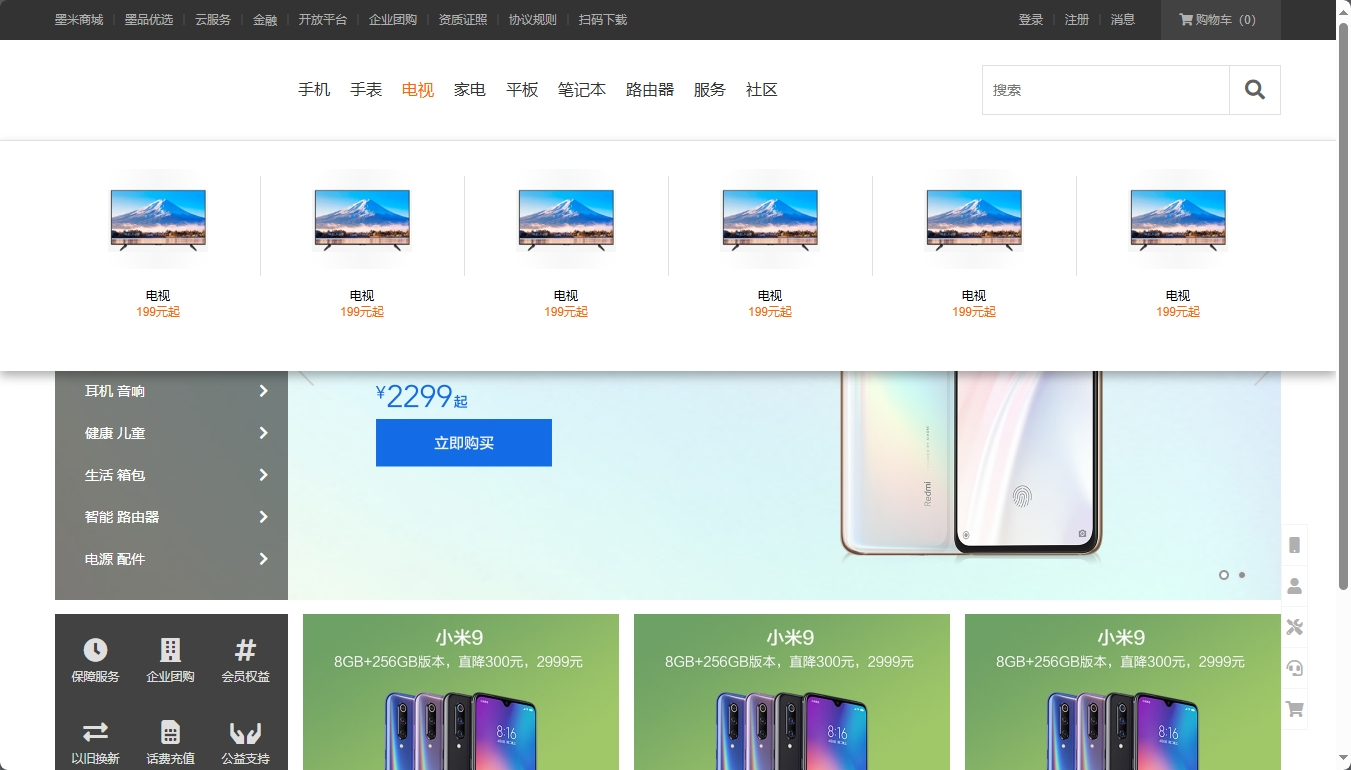
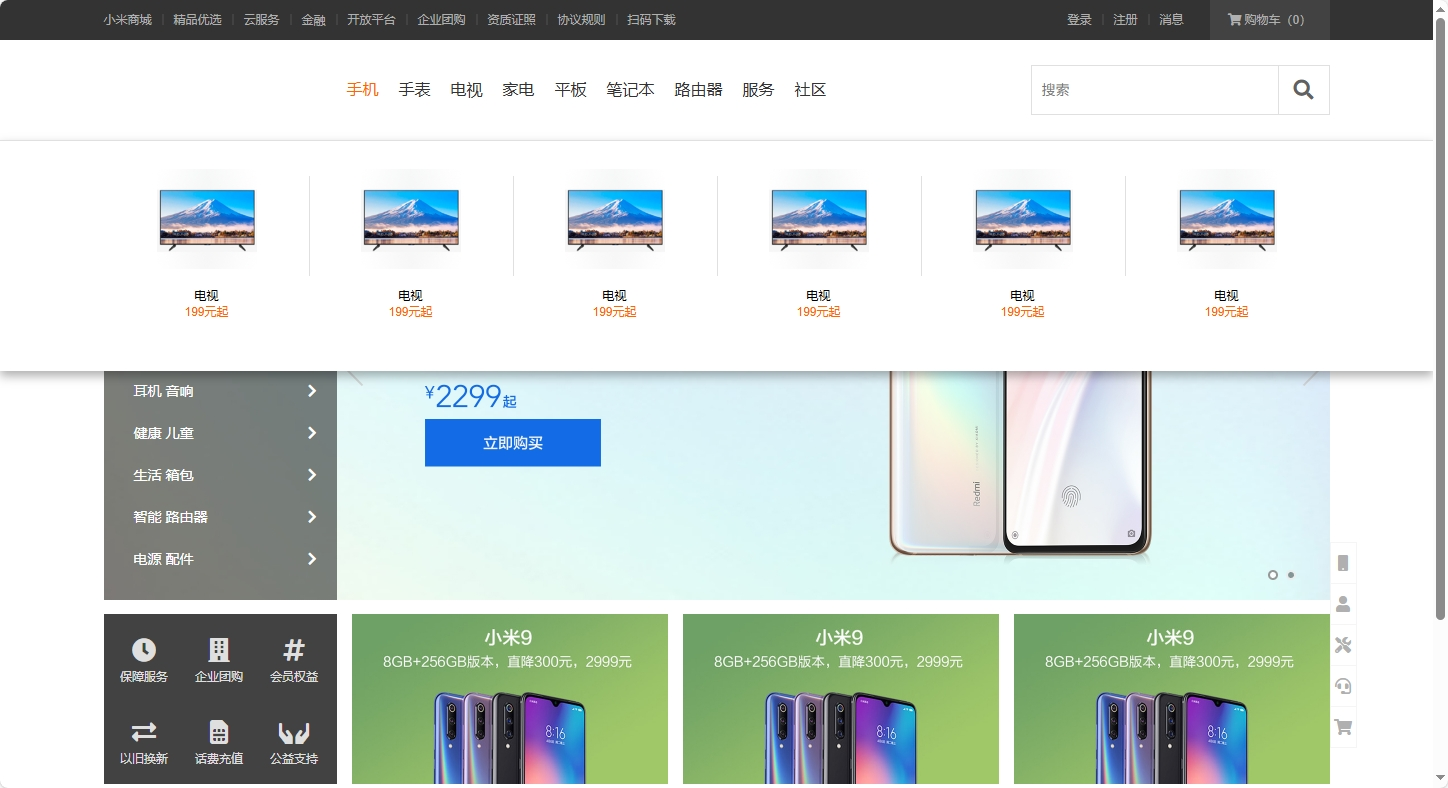
feat(优化): 修改网站名称

diff --git a/index.html b/index.html
@@ -5,7 +5,7 @@
   <meta charset="UTF-8">
   <meta http-equiv="X-UA-Compatible" content="IE=Edge">
   <meta name="viewport" content="width=device-width, initial-scale=1.0">
-  <title>墨米商城</title>
+  <title>小米商城</title>
   <!-- 引入页签图标 -->
   <link rel="icon" href="./favicon.ico" type="image/x-icon">
   <!-- 引入字体图标 -->
@@ -23,9 +23,9 @@
   <div class="topbar">
     <div class="container">
       <ul class="service">
-        <li><a href="javascript:;">墨米商城</a></li>
+        <li><a href="javascript:;">小米商城</a></li>
         <li><span class="separate"></span></li>
-        <li><a href="javascript:;">墨品优选</a></li>
+        <li><a href="javascript:;">精品优选</a></li>
         <li><span class="separate"></span></li>
         <li><a href="javascript:;">云服务</a></li>
         <li><span class="separate"></span></li>
@@ -43,7 +43,7 @@
           <a href="javascript:;">
             扫码下载
             <div class="download">
-              <img src="./images/download.png" alt="扫码下载">
+              <img src="./img/download.png" alt="扫码下载">
               <span>扫码下载</span>
             </div>
           </a>
@@ -63,10 +63,10 @@
   <!-- 头部导航栏 -->
   <div class="header">
     <div class="container">
-      <h1 class="logo" title="墨米商城">
-        <span>墨米商城</span>
+      <h1 class="logo" title="小米商城">
+        <span>小米商城</span>
         <a href="javascript:;">
-          <img src="./images/logo.png" alt="墨米商城">
+          <img src="./img/logo.png" alt="小米商城">
         </a>
       </h1>
       <ul class="nav">
@@ -88,49 +88,49 @@
                 <ul class="sort">
                   <li>
                     <a href="javascript:;">
-                      <img src="./images/info.png" alt="品类商品">
+                      <img src="./img/info.png" alt="品类商品">
                       <span>插排</span>
                     </a>
                   </li>
                   <li>
                     <a href="javascript:;">
-                      <img src="./images/info.png" alt="品类商品">
+                      <img src="./img/info.png" alt="品类商品">
                       <span>充电器</span>
                     </a>
                   </li>
                   <li>
                     <a href="javascript:;">
-                      <img src="./images/info.png" alt="品类商品">
+                      <img src="./img/info.png" alt="品类商品">
                       <span>数据线</span>
                     </a>
                   </li>
                   <li>
                     <a href="javascript:;">
-                      <img src="./images/info.png" alt="品类商品">
+                      <img src="./img/info.png" alt="品类商品">
                       <span>移动电源</span>
                     </a>
                   </li>
                   <li>
                     <a href="javascript:;">
-                      <img src="./images/info.png" alt="品类商品">
+                      <img src="./img/info.png" alt="品类商品">
                       <span>电池</span>
                     </a>
                   </li>
                   <li>
                     <a href="javascript:;">
-                      <img src="./images/info.png" alt="品类商品">
+                      <img src="./img/info.png" alt="品类商品">
                       <span>手机壳</span>
                     </a>
                   </li>
                   <li>
                     <a href="javascript:;">
-                      <img src="./images/info.png" alt="品类商品">
+                      <img src="./img/info.png" alt="品类商品">
                       <span>手机贴膜</span>
                     </a>
                   </li>
                   <li>
                     <a href="javascript:;">
-                      <img src="./images/info.png" alt="品类商品">
+                      <img src="./img/info.png" alt="品类商品">
                       <span>其他配件</span>
                     </a>
                   </li>
@@ -152,42 +152,42 @@
           <ul>
             <li>
               <a class="info" href="javascript:;">
-                <img src="./images/info.png" alt="热门商品">
+                <img src="./img/info.png" alt="热门商品">
                 <span>电视</span>
                 <span class="price">199元起</span>
               </a>
             </li>
             <li>
               <a class="info" href="javascript:;">
-                <img src="./images/info.png" alt="热门商品">
+                <img src="./img/info.png" alt="热门商品">
                 <span>电视</span>
                 <span class="price">199元起</span>
               </a>
             </li>
             <li>
               <a class="info" href="javascript:;">
-                <img src="./images/info.png" alt="热门商品">
+                <img src="./img/info.png" alt="热门商品">
                 <span>电视</span>
                 <span class="price">199元起</span>
               </a>
             </li>
             <li>
               <a class="info" href="javascript:;">
-                <img src="./images/info.png" alt="热门商品">
+                <img src="./img/info.png" alt="热门商品">
                 <span>电视</span>
                 <span class="price">199元起</span>
               </a>
             </li>
             <li>
               <a class="info" href="javascript:;">
-                <img src="./images/info.png" alt="热门商品">
+                <img src="./img/info.png" alt="热门商品">
                 <span>电视</span>
                 <span class="price">199元起</span>
               </a>
             </li>
             <li>
               <a class="info" href="javascript:;">
-                <img src="./images/info.png" alt="热门商品">
+                <img src="./img/info.png" alt="热门商品">
                 <span>电视</span>
                 <span class="price">199元起</span>
               </a>
@@ -213,7 +213,7 @@
   <div class="banner">
     <div class="container">
       <ul>
-        <li><a href="javascript:;"><img src="./images/banner.jpg" alt="轮播图片"></a></li>
+        <li><a href="javascript:;"><img src="./img/banner.jpg" alt="轮播图片"></a></li>
       </ul>
       <div class="pointer">
         <a class="active" href="javascript:;"></a>
@@ -247,9 +247,9 @@
         <li><a href="javascript:;"><i class="fas fa-hands"></i>公益支持</a></li>
       </ul>
       <ul class="wares">
-        <li><a href="javascript:;"><img src="./images/ware.png" alt="促销商品"></a></li>
-        <li><a href="javascript:;"><img src="./images/ware.png" alt="促销商品"></a></li>
-        <li><a href="javascript:;"><img src="./images/ware.png" alt="促销商品"></a></li>
+        <li><a href="javascript:;"><img src="./img/ware.png" alt="促销商品"></a></li>
+        <li><a href="javascript:;"><img src="./img/ware.png" alt="促销商品"></a></li>
+        <li><a href="javascript:;"><img src="./img/ware.png" alt="促销商品"></a></li>
       </ul>
     </div>
   </div>

diff --git a/css/index.css b/css/index.css
@@ -467,7 +467,7 @@
   margin: auto 0px;
   width: 41px;
   height: 69px;
-  background-image: url(../images/arrow.png);
+  background-image: url(../img/arrow.png);
 }
 
 .banner .arrow .prev {

diff --git a/README.md b/README.md
@@ -1,4 +1,4 @@
-# 墨米
+# 小米
 
 使用HTML和CSS编写的模仿小米官网的前端项目，使用弹性布局。
 
